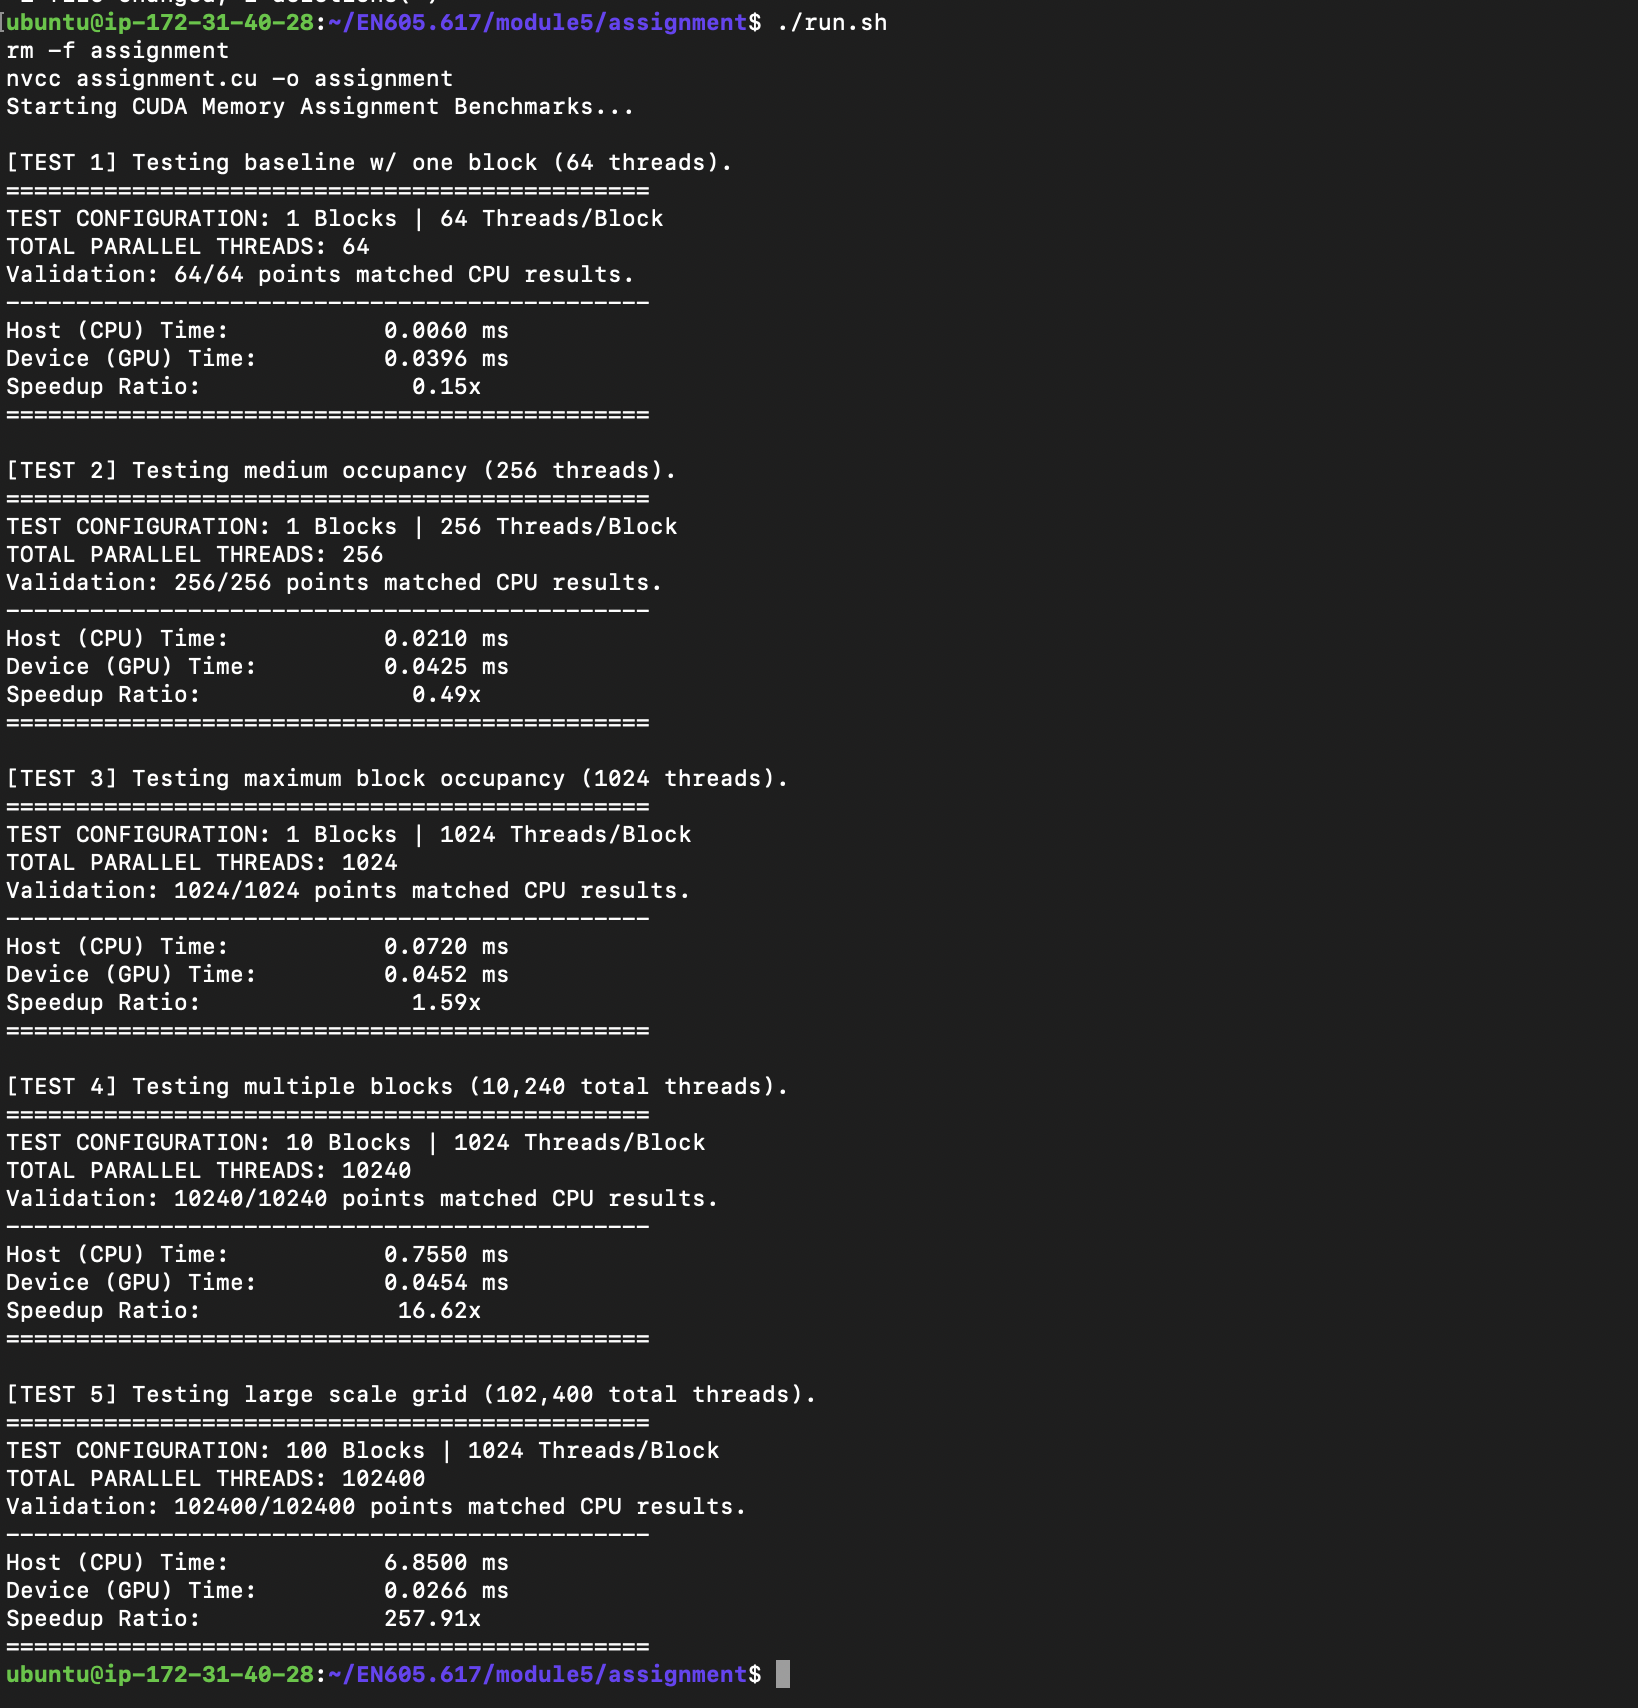
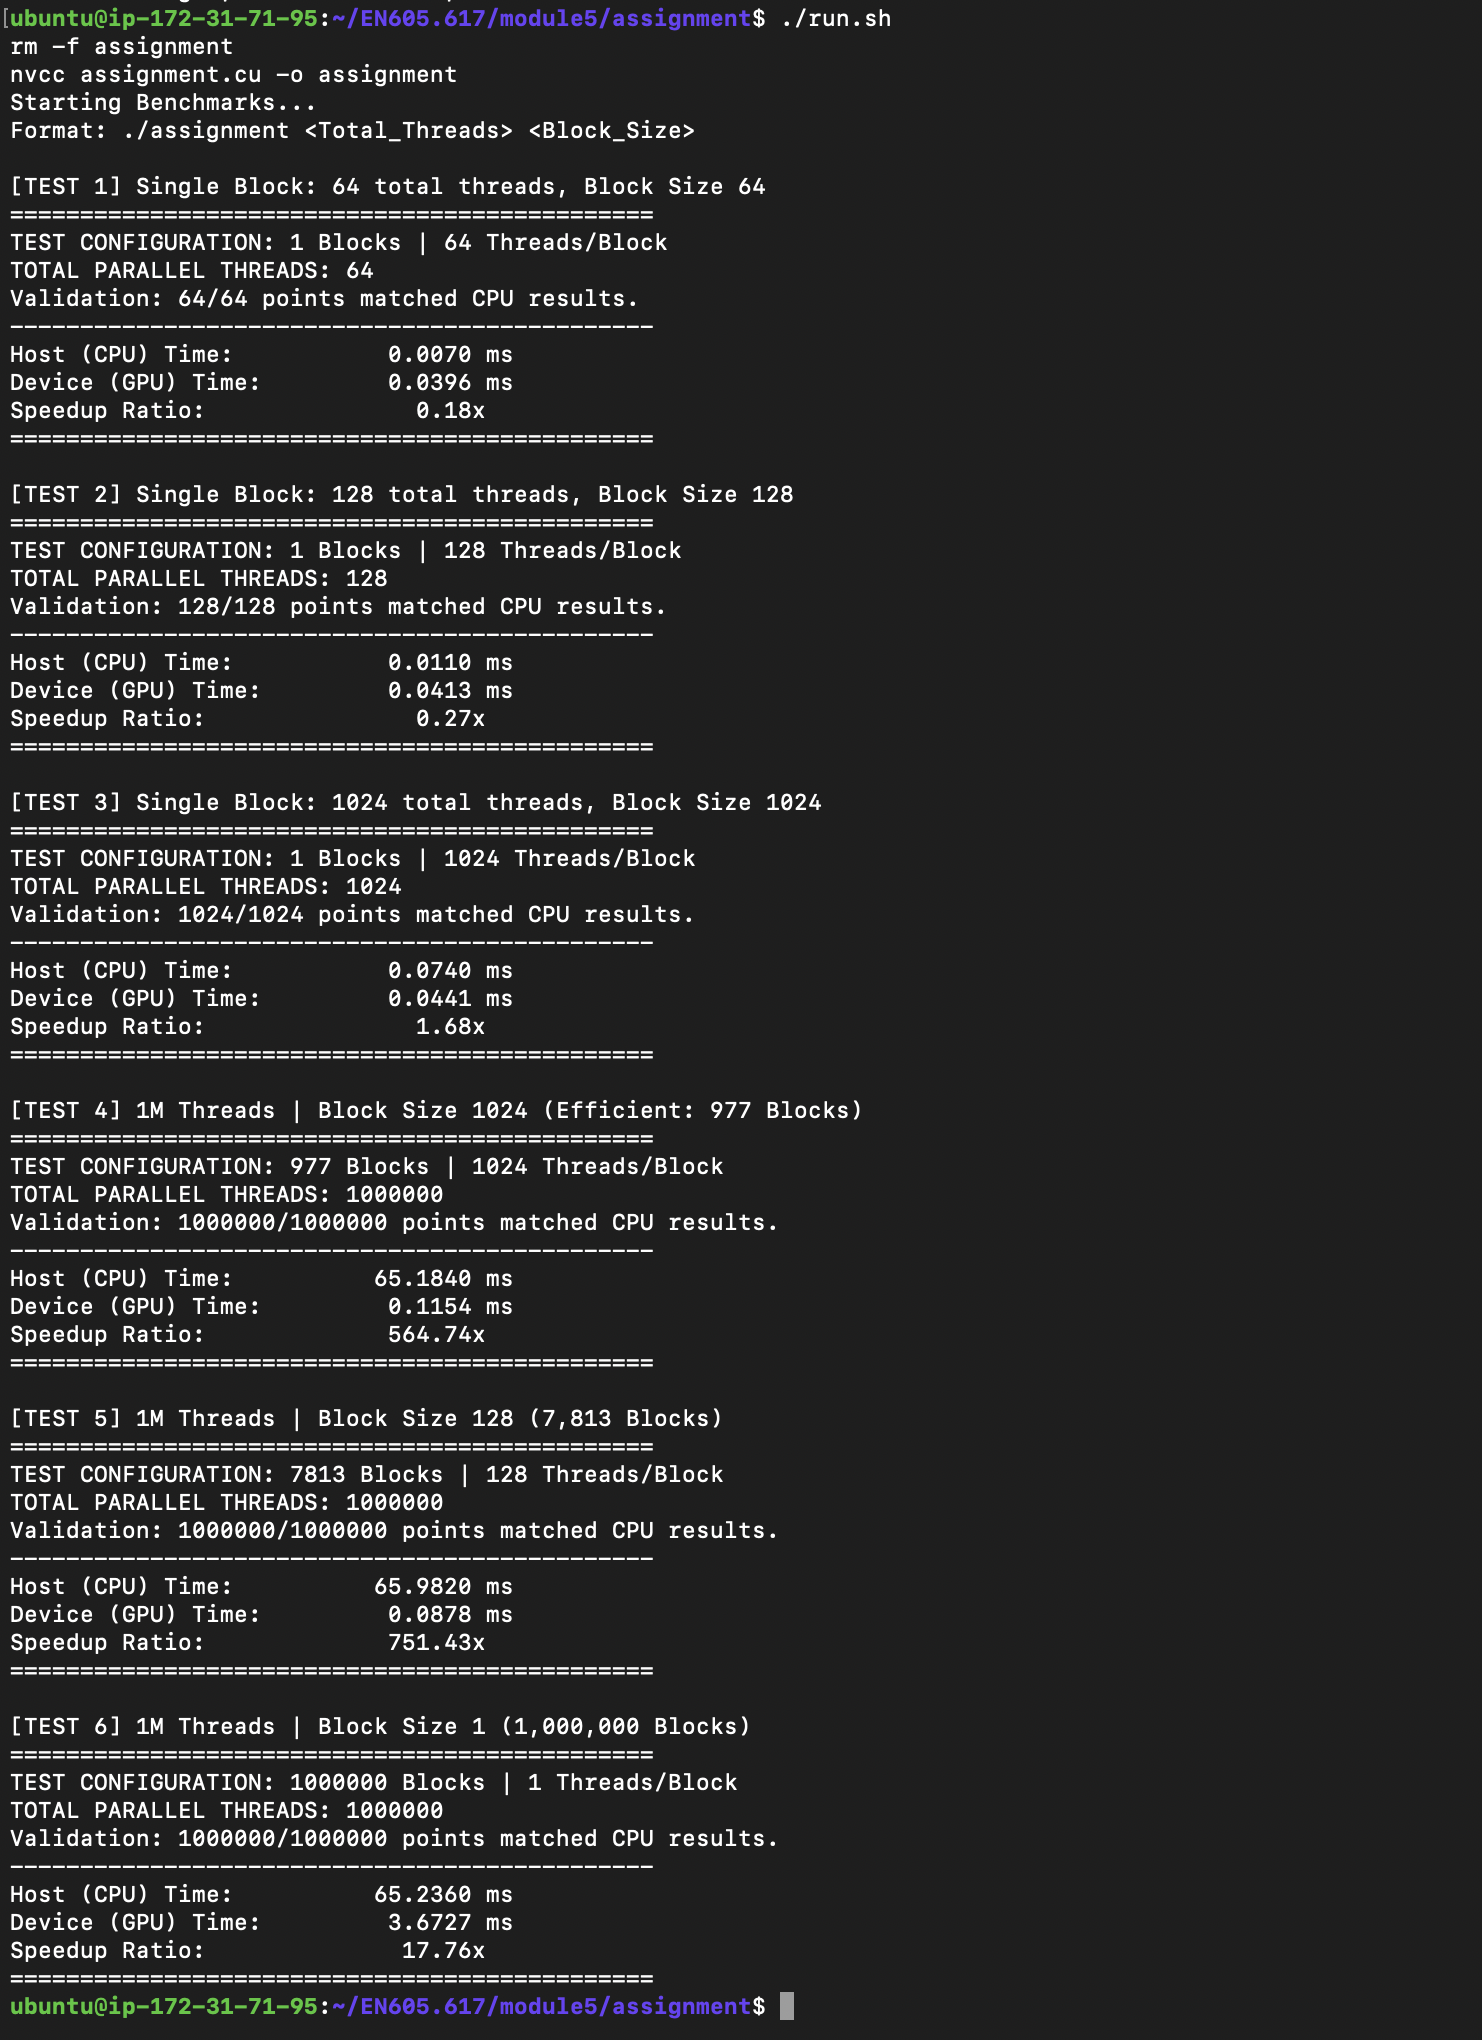
make final updates

diff --git a/module5/assignment/README.md b/module5/assignment/README.md
@@ -14,7 +14,7 @@ I also provided a CPU-only version for benchmarking purposes to see GPU performa
 ### To run all tests
 This will run tests for:
 1. 64, 256, 1024 threads (1 block)
-2. 1, 10, 100 blocks (1024 threads)
+2. 1024, 128, 1 blocks-size (1M threads)
 ```bash
     ./run.sh
 ```
